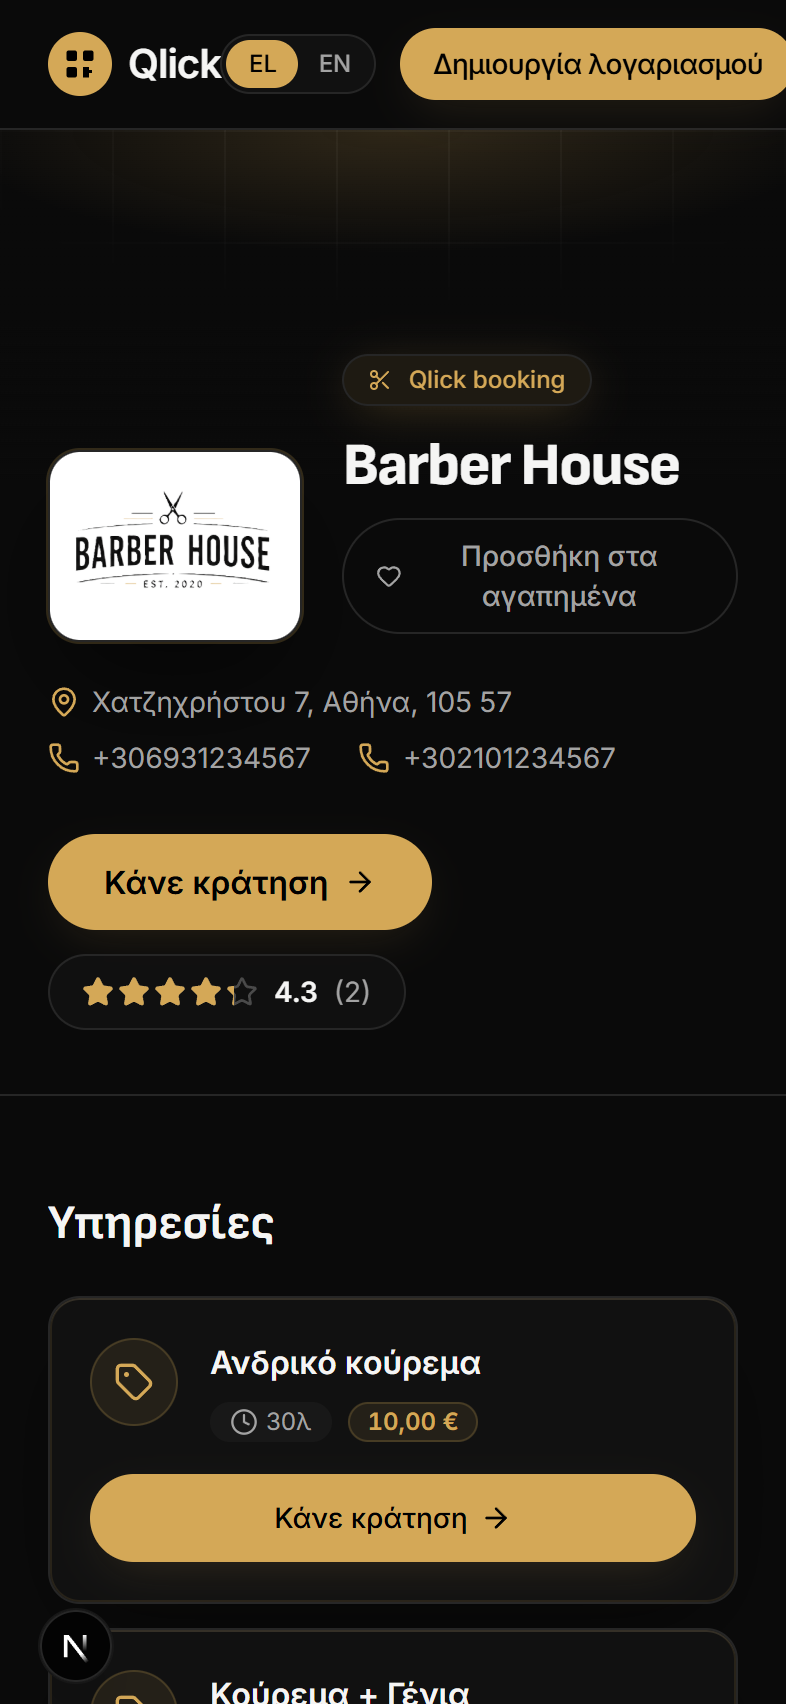
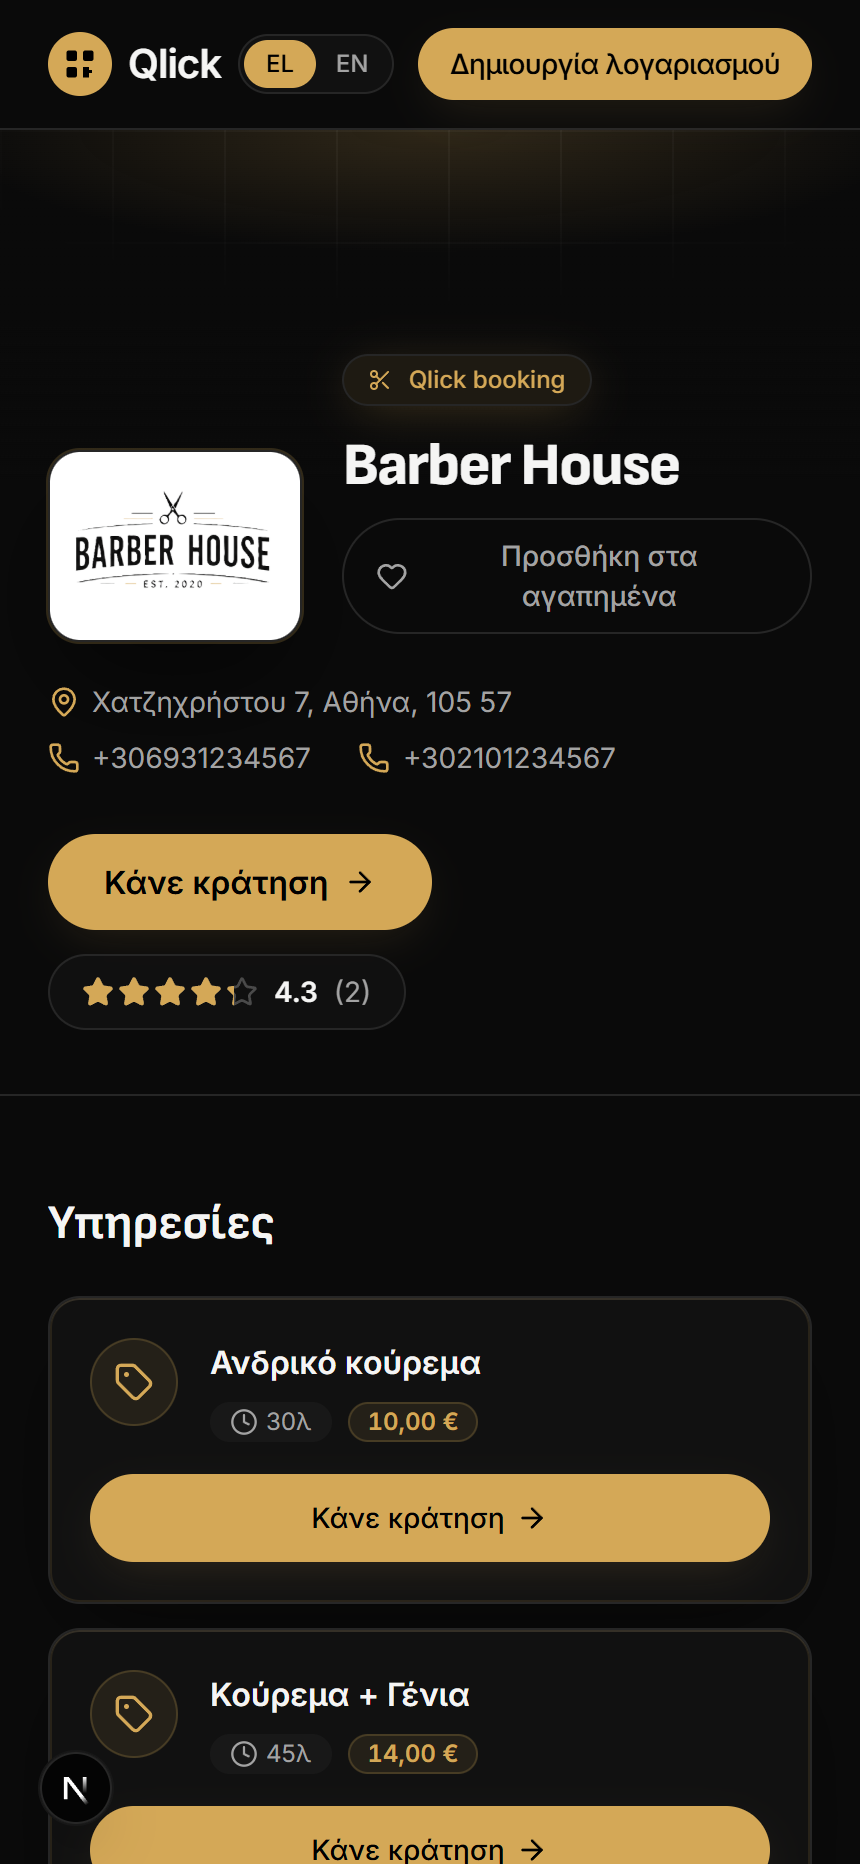
Demo: recapture mobile storefront at iPhone 14 Pro Max size
store-mobile.png is now shot at 430x932@2x (the size the user verified on a
real device), and the phone frame uses a softer corner radius + slightly
taller status-bar spacer so the header pill can't be clipped.

diff --git a/qlick-app/app/[locale]/(marketing)/demo/page.tsx b/qlick-app/app/[locale]/(marketing)/demo/page.tsx
@@ -48,7 +48,7 @@ const SECTION_SHOTS: {
   height: number;
   frame: "phone" | "browser";
 }[] = [
-  { src: "/tour/store-mobile.png", width: 786, height: 1704, frame: "phone" },
+  { src: "/tour/store-mobile.png", width: 860, height: 1864, frame: "phone" },
   { src: "/tour/booking-time.png", width: 393, height: 852, frame: "phone" },
   { src: "/tour/dash-calendar.png", width: 1440, height: 900, frame: "browser" },
   { src: "/tour/dash-qr.png", width: 1440, height: 900, frame: "browser" },
@@ -354,9 +354,9 @@ function PhoneShot({
         aria-hidden
         className="absolute -inset-6 -z-10 rounded-[48px] bg-gold/10 blur-2xl"
       />
-      <div className="overflow-hidden rounded-[2.2rem] border-[6px] border-surface-2 bg-background shadow-2xl shadow-black/60 ring-1 ring-gold/15">
+      <div className="overflow-hidden rounded-[1.8rem] border-[6px] border-surface-2 bg-background shadow-2xl shadow-black/60 ring-1 ring-gold/15">
         {/* status-bar spacer so the rounded corners don't clip the page's top nav */}
-        <div aria-hidden className="h-6 bg-background" />
+        <div aria-hidden className="h-7 bg-background" />
         <Image
           src={src}
           width={width}